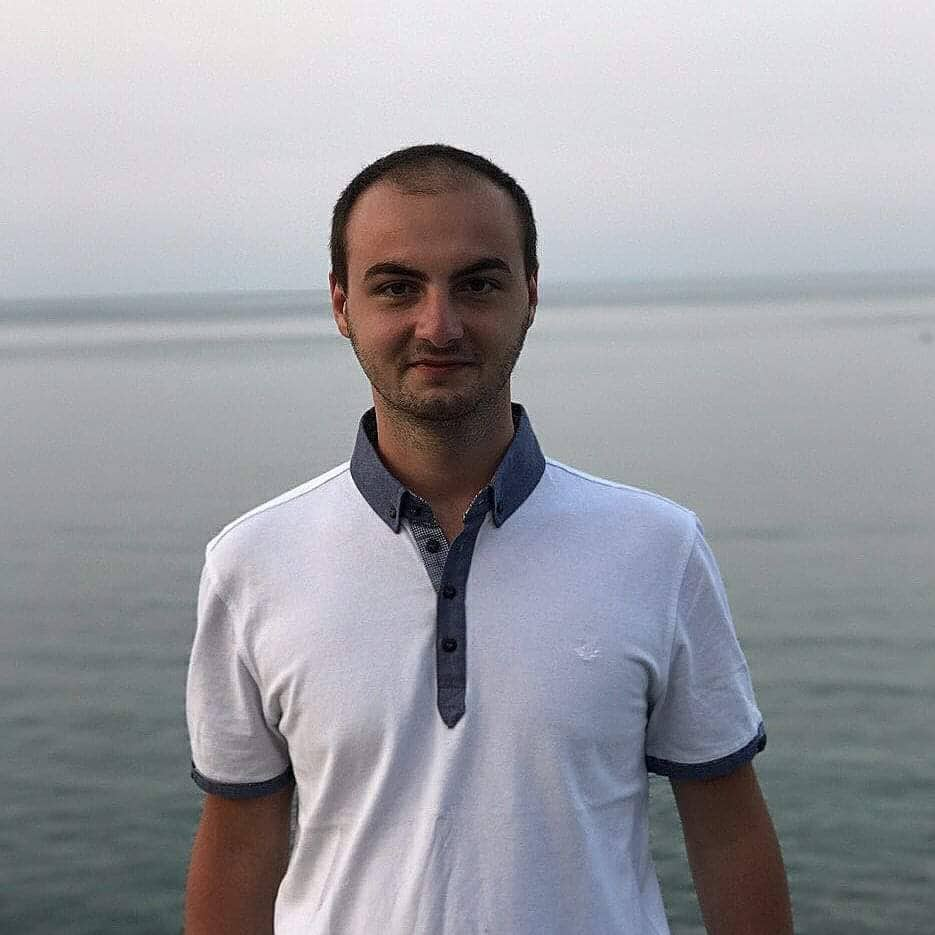
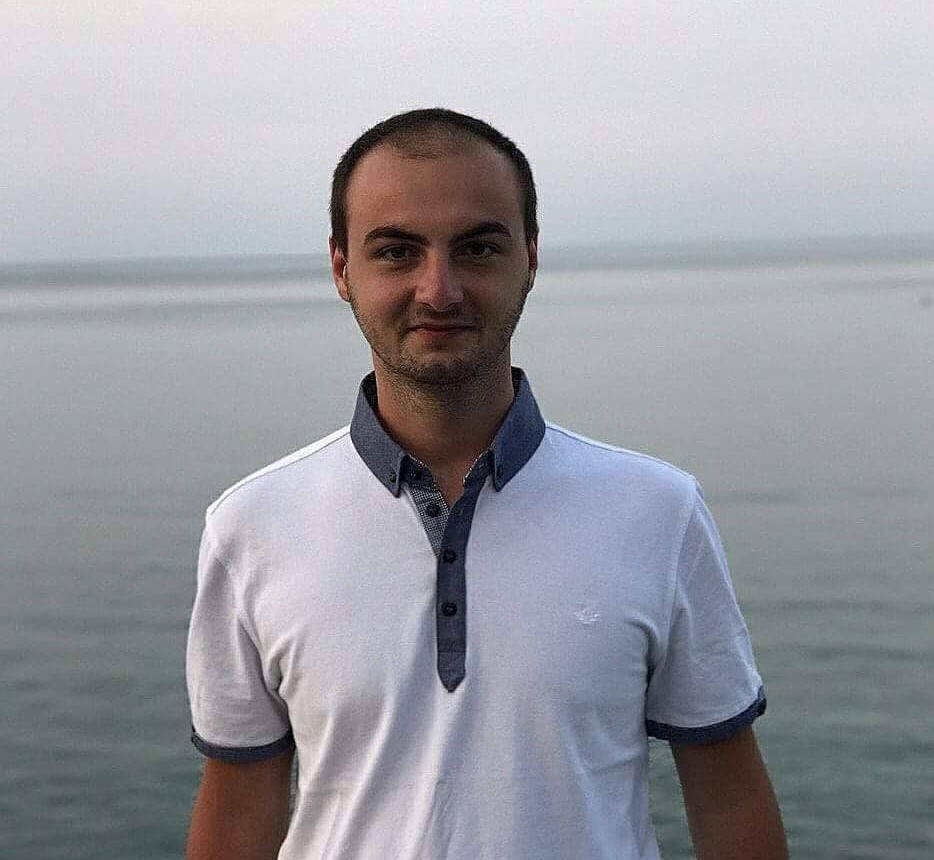
Aditional changes to team images.

diff --git a/src/pages/about/about.js b/src/pages/about/about.js
@@ -99,14 +99,14 @@ const teamMembers = [
 ];
 
 teamMembers.forEach((el) => {
-   team.innerHTML += `<div class="team" width="100" height="200">             
-               <img class="member-image" src=${el.Img} alt="" width="200" height="auto"/>
+   team.innerHTML += `<div class="team">           
+                <img class="member-image" src=${el.Img} alt="" />
                 <h3 class="name">${el.Name}</h3>
                 <div class="design">${el.Role}</div>
                 <div class="desc">${el.Desc}</div>
                 <div class="social">
-                  <a href="#"><i class="fa fa-linkedin fa-2x"></i></a>
-                   <a href="#"><i class="fa fa-github fa-2x"></i></a>
+                <a href="#"><i class="fa fa-linkedin fa-2x"></i></a>
+                <a href="#"><i class="fa fa-github fa-2x"></i></a>
              </div>
           </div>`;
 });

diff --git a/src/assets/styles/about.css b/src/assets/styles/about.css
@@ -71,7 +71,7 @@
 }
 
 .member-image {
-   width: 100%;
+   width: 85%;
    max-width: 300px;
    margin: auto;
    height: 200;
@@ -94,7 +94,7 @@
 }
 
 .desc {
-   font-size: 19px;
+   font-size: 17px;
    font-weight: 300;
    color: #4e4e4e;
 }
@@ -133,7 +133,7 @@
 
 .contact-info {
    width: 100%;
-   padding: 10px;
+   padding: 2.3rem 25px 30px 25px;
    position: relative;
 }
 
@@ -144,6 +144,7 @@
    align-items: center;
    font-size: 18px;
    gap: 15px;
+   padding-top: 15px;
 }
 
 .contact-form {
@@ -233,7 +234,7 @@ textarea.input {
 }
 
 .social-media {
-   margin-top: 20px;
+   margin-top: 50px;
 }
 
 .social-media p {
